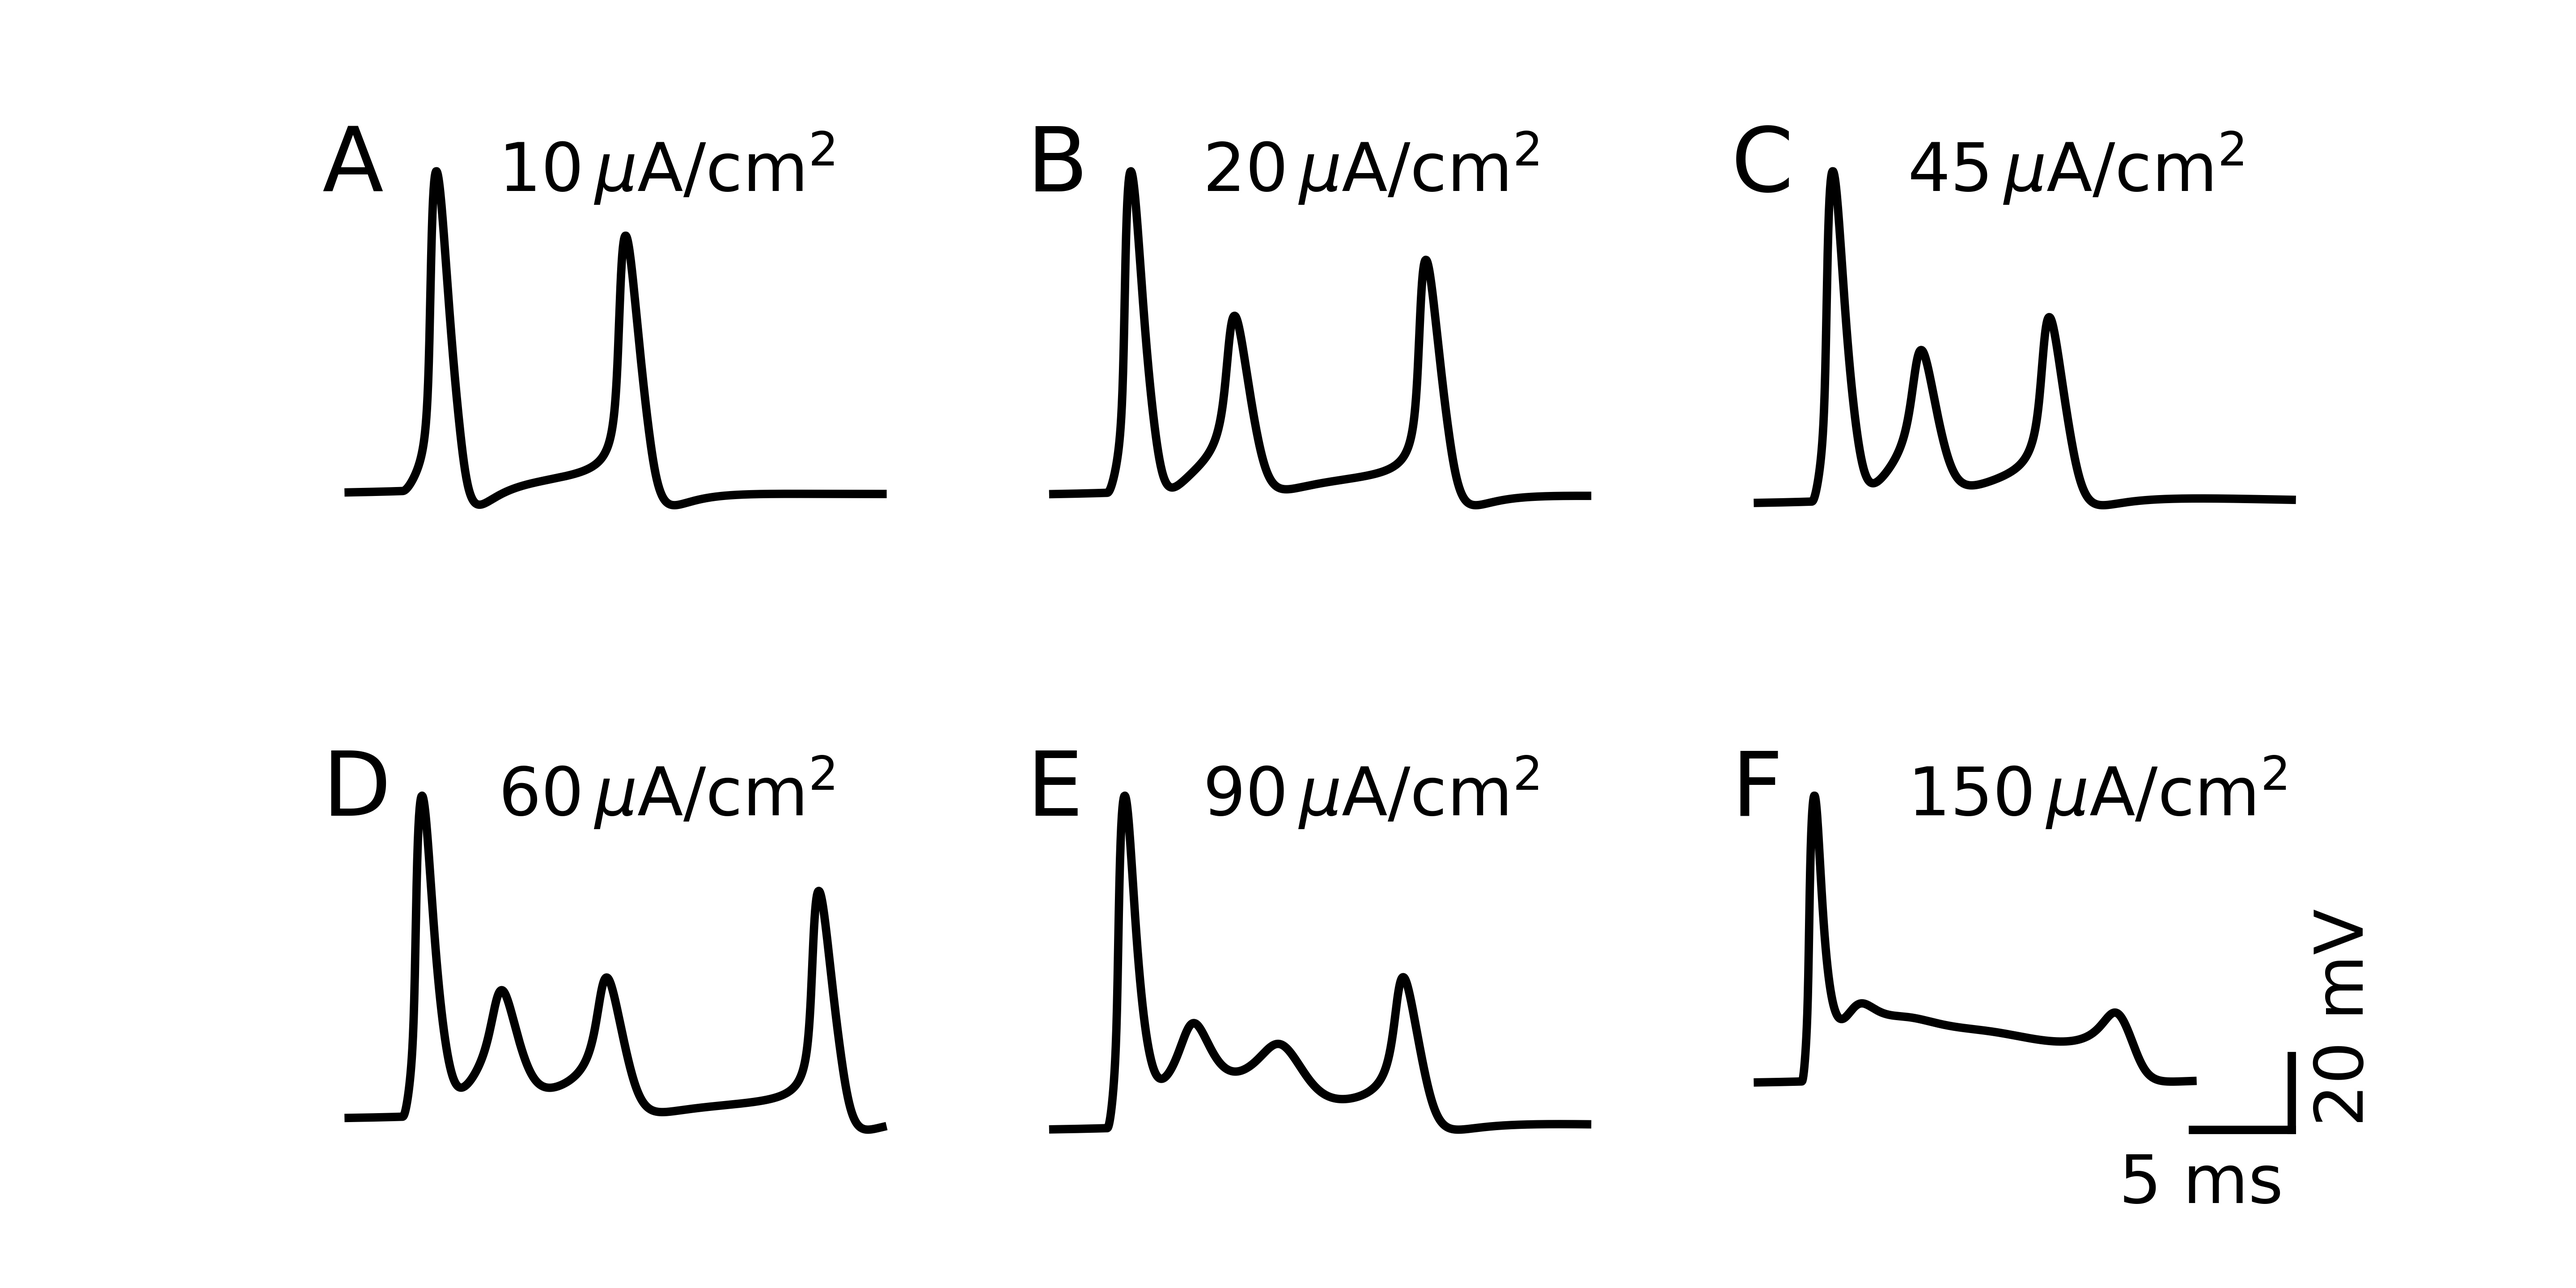
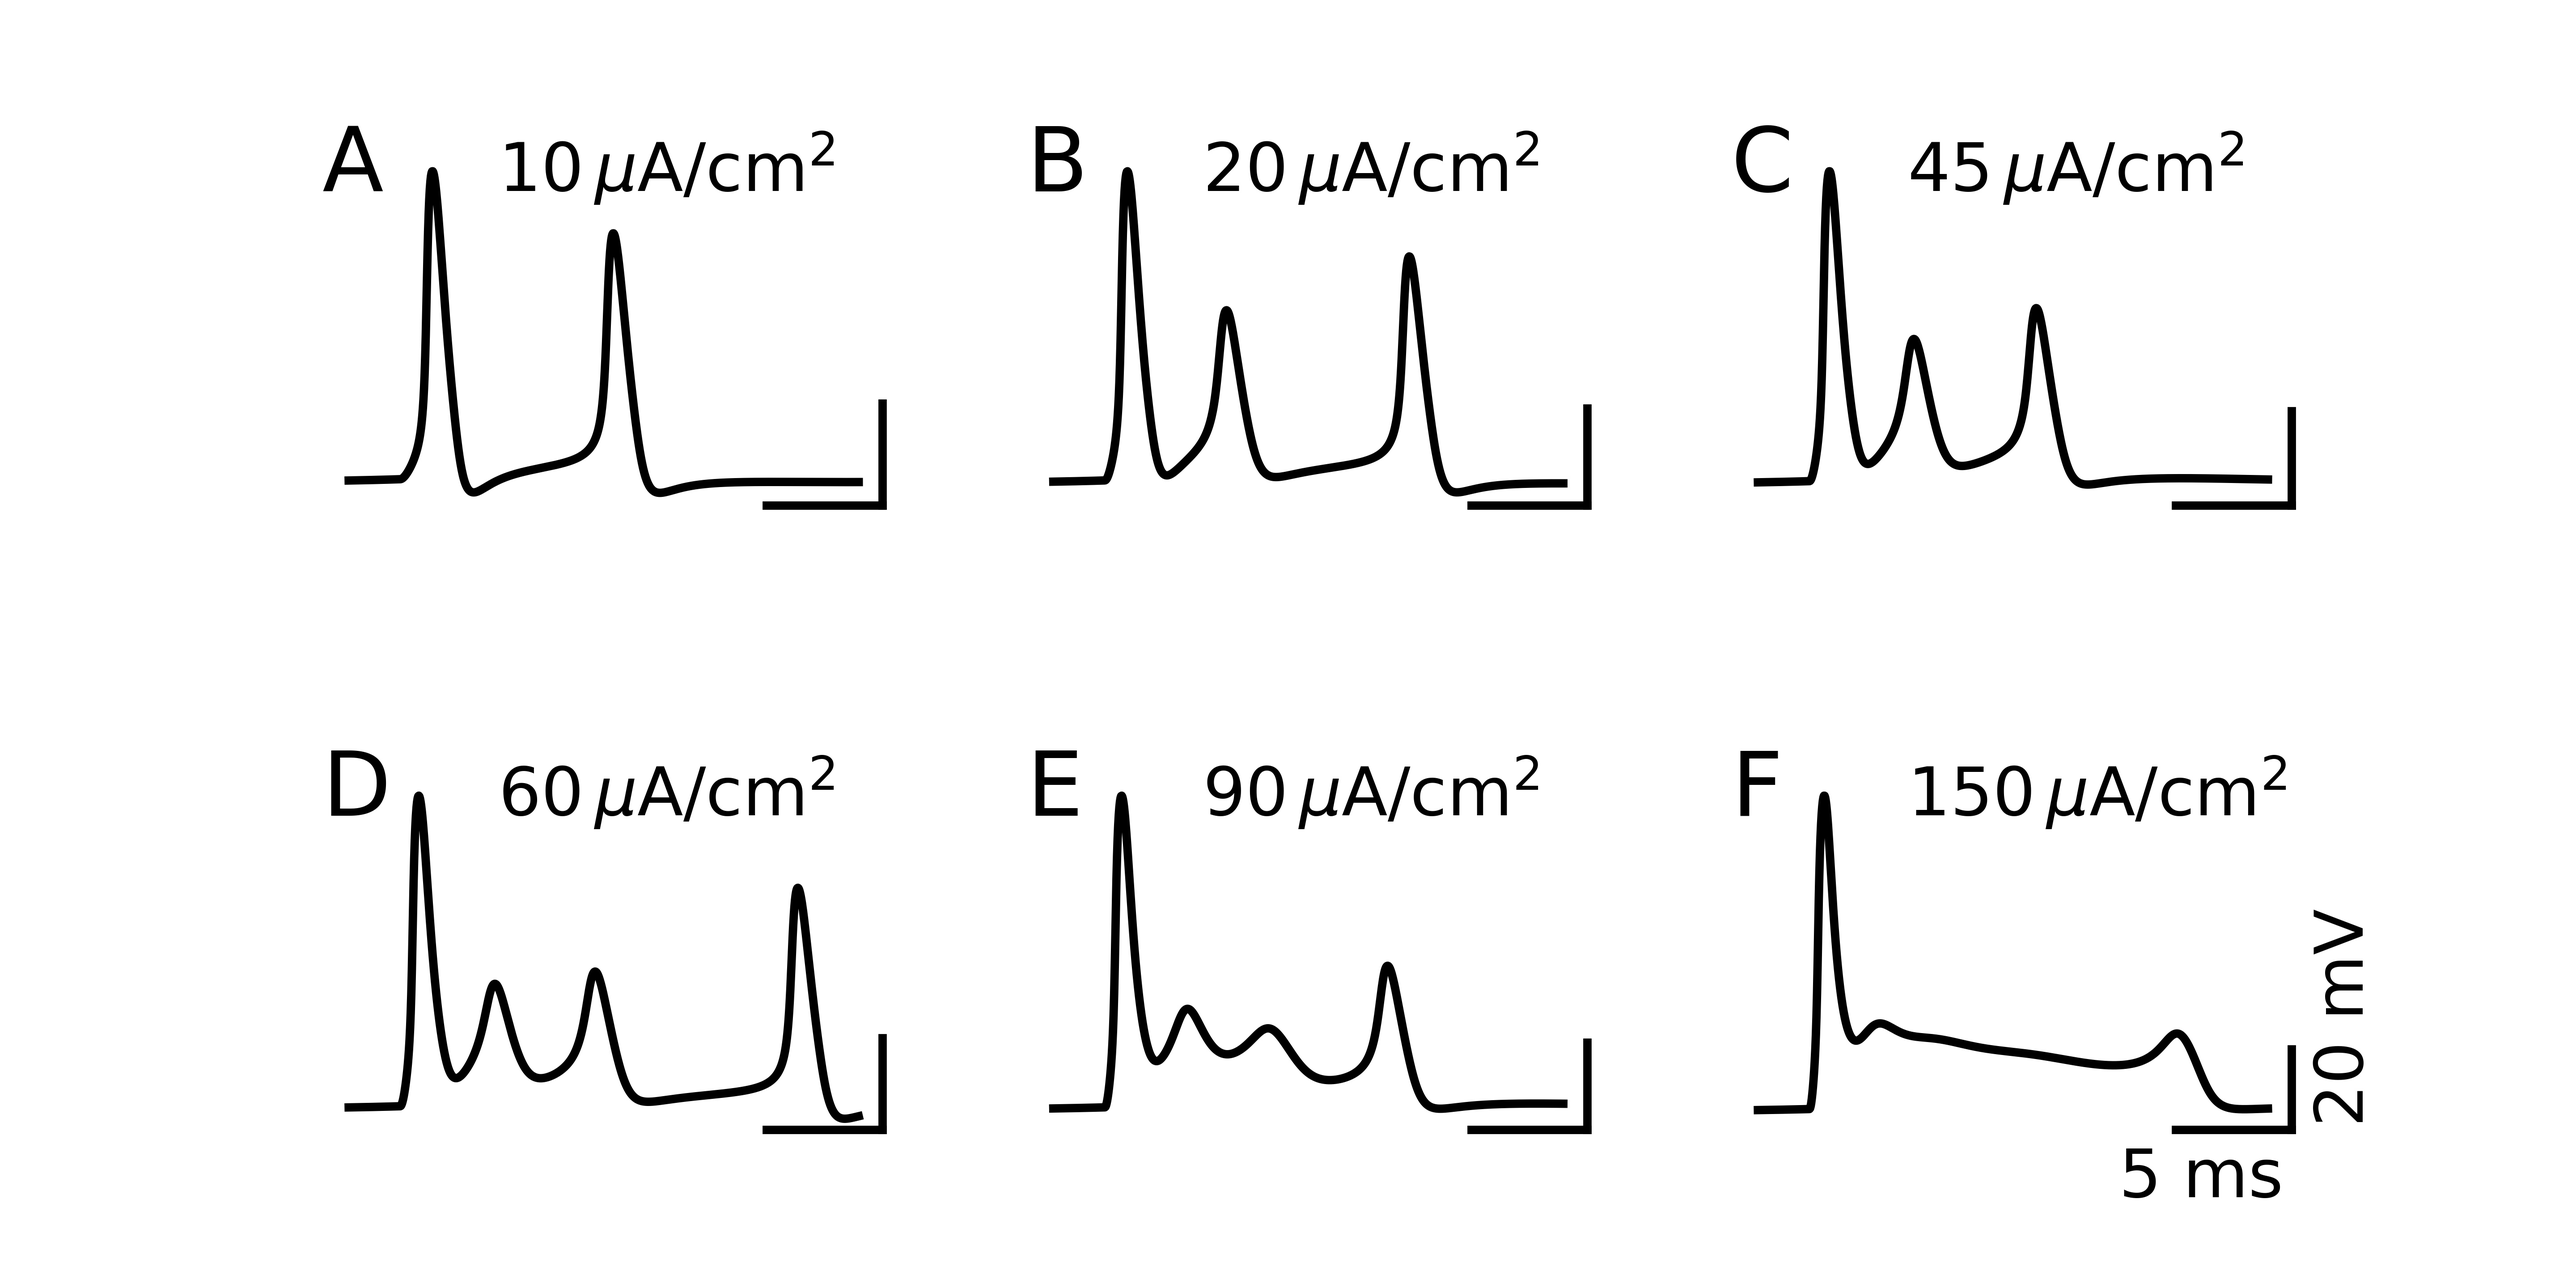
sorting out the cs figures again

diff --git a/Fig_cs_i_5/figure.py b/Fig_cs_i_5/figure.py
@@ -7,39 +7,34 @@ import itertools
 import pylab as P
 import scipy
 
-
 t_len=0.005
 t_loc=0.001
 v_loc=-57
 
-
-voltage_10_mv  = np.loadtxt('voltage_10.txt')
 voltage_20_mv  = np.loadtxt('voltage_20.txt')
-voltage_30_mv  = np.loadtxt('voltage_30.txt')
-voltage_45_mv  = np.loadtxt('voltage_45.txt')
+voltage_40_mv  = np.loadtxt('voltage_40.txt')
 voltage_60_mv  = np.loadtxt('voltage_60.txt')
 voltage_90_mv  = np.loadtxt('voltage_90.txt')
-voltage_130_mv = np.loadtxt('voltage_130.txt')
-voltage_150_mv = np.loadtxt('voltage_150.txt')
+voltage_110_mv  = np.loadtxt('voltage_110.txt')
+voltage_190_mv  = np.loadtxt('voltage_190.txt')
 
-times = [x[0] for x in voltage_10_mv]
+times = [x[0] for x in voltage_20_mv]
 
-voltage_10 = [x[1]*1000 for x in voltage_10_mv]
 voltage_20 = [x[1]*1000 for x in voltage_20_mv]
-voltage_30 = [x[1]*1000 for x in voltage_30_mv]
-voltage_45 = [x[1]*1000 for x in voltage_45_mv]
+voltage_40 = [x[1]*1000 for x in voltage_40_mv]
 voltage_60 = [x[1]*1000 for x in voltage_60_mv]
 voltage_90 = [x[1]*1000 for x in voltage_90_mv]
-voltage_130 = [x[1]*1000 for x in voltage_130_mv]
-voltage_150 = [x[1]*1000 for x in voltage_150_mv]
+voltage_110 = [x[1]*1000 for x in voltage_110_mv]
+voltage_190 = [x[1]*1000 for x in voltage_190_mv]
+
 
 
 t_length=0.022
 
 #cs time is 0.23225
-
+#[0.2151745]
 t1=0
-while times[t1]<0.23:
+while times[t1]<0.21:
     t1+=1
 t2=t1+1
 while times[t2]<times[t1]+t_length:
@@ -64,8 +59,7 @@ plt.tick_params(
      labelbottom=False,         # ticks along the top edge are off
      labelleft=False)
 
-plt.plot(times[t1:t2], voltage_10[t1:t2], 'k')
-
+plt.plot(times[t1:t2], voltage_20[t1:t2], 'k')
 
 #plt.xlabel('5 ms', fontsize=12)
 ax1.xaxis.set_label_coords(0.8, 0.0)
@@ -92,8 +86,7 @@ plt.tick_params(
      labelbottom=False,         # ticks along the top edge are off
      labelleft=False)
 
-plt.plot(times[t1:t2], voltage_20[t1:t2], 'k')
-
+plt.plot(times[t1:t2], voltage_40[t1:t2], 'k')
 
 #plt.xlabel('5 ms', fontsize=12)
 ax2.xaxis.set_label_coords(0.8, 0.0)
@@ -105,7 +98,6 @@ plt.plot(scale1_x,scale1_y,color='k')
 scale2_x=[times[t2]+t_loc,times[t2]+t_loc]
 scale2_y=[v_loc,v_loc+20]
 plt.plot(scale2_x,scale2_y,color='k')
-
 
 
 #3
@@ -121,8 +113,7 @@ plt.tick_params(
      labelbottom=False,         # ticks along the top edge are off
      labelleft=False)
 
-plt.plot(times[t1:t2], voltage_45[t1:t2], 'k')
-
+plt.plot(times[t1:t2], voltage_60[t1:t2], 'k')
 
 #plt.xlabel('5 ms', fontsize=12)
 ax3.xaxis.set_label_coords(0.8, 0.0)
@@ -134,6 +125,7 @@ plt.plot(scale1_x,scale1_y,color='k')
 scale2_x=[times[t2]+t_loc,times[t2]+t_loc]
 scale2_y=[v_loc,v_loc+20]
 plt.plot(scale2_x,scale2_y,color='k')
+
 
 
 #4
@@ -149,8 +141,7 @@ plt.tick_params(
      labelbottom=False,         # ticks along the top edge are off
      labelleft=False)
 
-plt.plot(times[t1:t2], voltage_60[t1:t2], 'k')
-
+plt.plot(times[t1:t2], voltage_90[t1:t2], 'k')
 
 #plt.xlabel('5 ms', fontsize=12)
 ax4.xaxis.set_label_coords(0.8, 0.0)
@@ -162,6 +153,7 @@ plt.plot(scale1_x,scale1_y,color='k')
 scale2_x=[times[t2]+t_loc,times[t2]+t_loc]
 scale2_y=[v_loc,v_loc+20]
 plt.plot(scale2_x,scale2_y,color='k')
+
 
 
 #5
@@ -177,8 +169,7 @@ plt.tick_params(
      labelbottom=False,         # ticks along the top edge are off
      labelleft=False)
 
-plt.plot(times[t1:t2], voltage_90[t1:t2], 'k')
-
+plt.plot(times[t1:t2], voltage_110[t1:t2], 'k')
 
 
 #plt.xlabel('5 ms', fontsize=12)
@@ -207,7 +198,7 @@ plt.tick_params(
      labelbottom=False,         # ticks along the top edge are off
      labelleft=False)
 
-plt.plot(times[t1:t2], voltage_150[t1:t2], 'k')
+plt.plot(times[t1:t2], voltage_190[t1:t2], 'k')
 
 
 
@@ -224,26 +215,26 @@ plt.plot(scale2_x,scale2_y,color='k')
 
 
 
-plt.text(0.0,0.9,'A', fontsize=16,transform=ax1.transAxes)
-plt.text(0.0,0.9,'B', fontsize=16,transform=ax2.transAxes)
-plt.text(0.0,0.9,'C', fontsize=16,transform=ax3.transAxes)
-plt.text(0.,0.9,'D', fontsize=16,transform=ax4.transAxes)
-plt.text(0.,0.9,'E', fontsize=16,transform=ax5.transAxes)
-plt.text(0.,0.9,'F', fontsize=16,transform=ax6.transAxes)
+plt.text(0.0,0.95,'A', fontsize=16,transform=ax1.transAxes)
+plt.text(0.0,0.95,'B', fontsize=16,transform=ax2.transAxes)
+plt.text(0.0,0.95,'C', fontsize=16,transform=ax3.transAxes)
+plt.text(0.,0.95,'D', fontsize=16,transform=ax4.transAxes)
+plt.text(0.,0.95,'E', fontsize=16,transform=ax5.transAxes)
+plt.text(0.,0.95,'F', fontsize=16,transform=ax6.transAxes)
 
 
-plt.text(0.3,0.9,  '$10\,\mu$A$/$cm$^2$', fontsize=12,transform=ax1.transAxes)
-plt.text(0.3,0.9, '$20\,\mu$A$/$cm$^2$', fontsize=12,transform=ax2.transAxes)
-plt.text(0.3,0.9,  '$45\,\mu$A$/$cm$^2$', fontsize=12,transform=ax3.transAxes)
-plt.text(0.3,0.9 ,'$60\,\mu$A$/$cm$^2$', fontsize=12,transform=ax4.transAxes)           
-plt.text(0.3,0.9,  '$90\,\mu$A$/$cm$^2$', fontsize=12,transform=ax5.transAxes)
-plt.text(0.3,0.9 ,'$150\,\mu$A$/$cm$^2$', fontsize=12,transform=ax6.transAxes)           
+plt.text(0.3,0.95,  '$20\,\mu$A$/$cm$^2$', fontsize=12,transform=ax1.transAxes)
+plt.text(0.3,0.95, '$40\,\mu$A$/$cm$^2$', fontsize=12,transform=ax2.transAxes)
+plt.text(0.3,0.95,  '$60\,\mu$A$/$cm$^2$', fontsize=12,transform=ax3.transAxes)
+plt.text(0.3,0.95 ,'$90\,\mu$A$/$cm$^2$', fontsize=12,transform=ax4.transAxes)           
+plt.text(0.3,0.95,  '$110\,\mu$A$/$cm$^2$', fontsize=12,transform=ax5.transAxes)
+plt.text(0.3,0.95 ,'$190\,\mu$A$/$cm$^2$', fontsize=12,transform=ax6.transAxes)           
 
 
 
 fig1.subplots_adjust(hspace=.7)
 
 
-plt.savefig('figure_cs_i.jpg', dpi=900)
+plt.savefig('figure_cs_i_5.jpg', dpi=900)
 plt.show()
 

diff --git a/Fig_tau_minus/figure.py b/Fig_tau_minus/figure.py
@@ -74,8 +74,6 @@ ax1.set_ylim(bottom,top)
 
 plt.plot(times[t1:t2], voltage_5[t1:t2], 'k')
 
-
-
 offset=0.005
 
 plt.xlabel('20 ms', fontsize=12)
@@ -164,13 +162,18 @@ scale2_x=[times[t2]+offset,times[t2]+offset]
 scale2_y=[-65,-45]
 plt.plot(scale2_x,scale2_y,color='k')
 
-plt.text(0.17,340,'A', fontsize=16)
-plt.text(0.17,180,'B', fontsize=16)
-plt.text(0.17,20 ,'C', fontsize=16)
+plt.text(0.17,350,'A', fontsize=16)
+plt.text(0.17,190,'B', fontsize=16)
+plt.text(0.17,30 ,'C', fontsize=16)
 
-plt.text(0.18,340,'$\\tau_-=5$ ms', fontsize=12)
-plt.text(0.18,180,'$\\tau_-=8$ ms', fontsize=12)
-plt.text(0.18,20 ,'$\\tau_- = 12$ ms and $I_{\\mathrm{cf}}=20\\,\\mu$A/cm$^2$', fontsize=12)
+#plt.text(0.18,353.5,'$\\tau_-=5$ ms', fontsize=12)
+#plt.text(0.18,193.5,'$\\tau_-=8$ ms', fontsize=12)
+#plt.text(0.18,30 ,'$\\tau_- = 12$ ms and $I_{\\mathrm{cf}}=20\\,\\mu$A/cm$^2$', fontsize=12)
+
+
+plt.text(0.18,350,'5 ms', fontsize=12)
+plt.text(0.18,190,'8 ms', fontsize=12)
+plt.text(0.18,30 ,'12 ms and $I_{\\mathrm{cf}}=20\\,\\mu$A/cm$^2$', fontsize=12)
 
 
 
